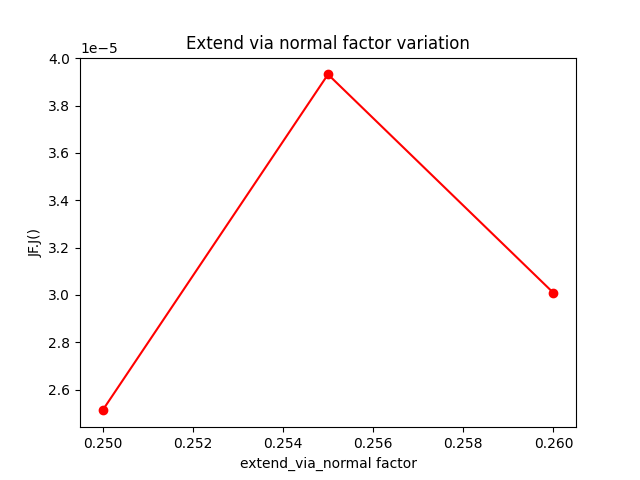
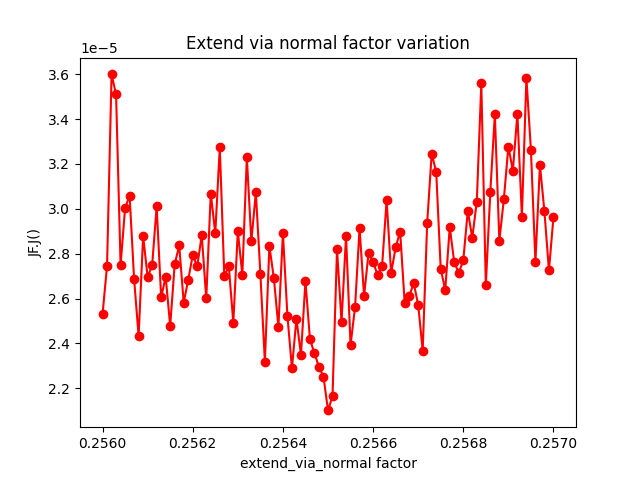
spline for findind the best value for extend_via_normal

diff --git a/code/min_J_for_ext_via_normal.py b/code/min_J_for_ext_via_normal.py
@@ -86,7 +86,7 @@ def cws_and_curves(factor):
 
     return cws, cws_full, base_curves, base_currents
 
-factor_values = np.arange(0.250, 0.260, 0.005) #np.arange(0.250, 0.260, 0.0001)
+factor_values = np.arange(0.2560, 0.2570, 0.00001) #np.arange(0.250, 0.260, 0.0001)
 J_values = []
 
 for i in factor_values:
@@ -131,7 +131,7 @@ for i in factor_values:
         tol=1e-15,
     )
 
-    print(f"{i:.4f}:    {JF.J():.3e}")
+    print(f"{i:.6f}:    {JF.J():.3e}")
     J_values.append(JF.J())
 
 print(min(J_values))
@@ -146,5 +146,5 @@ plt.savefig("opt_evn_factor.png")
 plt.show()
 
 data = np.column_stack([factor_values, J_values])
-datafile_path = OUT_DIR + "data.txt"
+datafile_path = OUT_DIR + "data_65.txt"
 np.savetxt(datafile_path , data, fmt=['%f','%e'])

diff --git a/code/evn_spline.py b/code/evn_spline.py
@@ -1,0 +1,28 @@
+import numpy as np
+from scipy.interpolate import UnivariateSpline
+import matplotlib.pyplot as plt
+
+def Read_Two_Column_File(file_name):
+    with open(file_name, 'r') as data:
+        x = []
+        y = []
+        for line in data:
+            p = line.split()
+            x.append(float(p[0]))
+            y.append(float(p[1]))
+
+    return x, y
+
+x, y = Read_Two_Column_File('evn/data_65.txt')
+
+spl = UnivariateSpline(x, y, k=4, s=0)
+x_ = np.linspace(0.256, 0.257, 1000)
+plt.plot(x_, spl(x_), 'g', lw='1')
+list_spl = []
+for i in range(0, len(spl(x_))):
+    list_spl.append(spl(x_)[i])
+
+min_x = x_[list_spl.index(min(spl(x_)))]
+print(f"{min_x} {min(list_spl)}")
+
+plt.show()

diff --git a/code/stage_two_cws.py b/code/stage_two_cws.py
@@ -28,7 +28,7 @@ CURVATURE_THRESHOLD = 60
 CURVATURE_WEIGHT = 1e-5
 
 # Threshold and weight for the mean squared curvature penalty in the objective function:
-MSC_THRESHOLD = 20
+MSC_THRESHOLD = 60
 #MSC_WEIGHT = 0.01
 MSC_WEIGHT = 1e-9
 
@@ -44,7 +44,7 @@ order = 10 # order of dofs of cws curves
 quadpoints = 300 #13 * order
 ntheta = 50
 nphi = 42
-ext_via_normal_factor = 0.2565
+ext_via_normal_factor = 0.2565055055055055
 
 # CREATE FLUX SURFACE
 s = SurfaceRZFourier.from_vmec_input(wout, range="half period", ntheta=ntheta, nphi=nphi)
